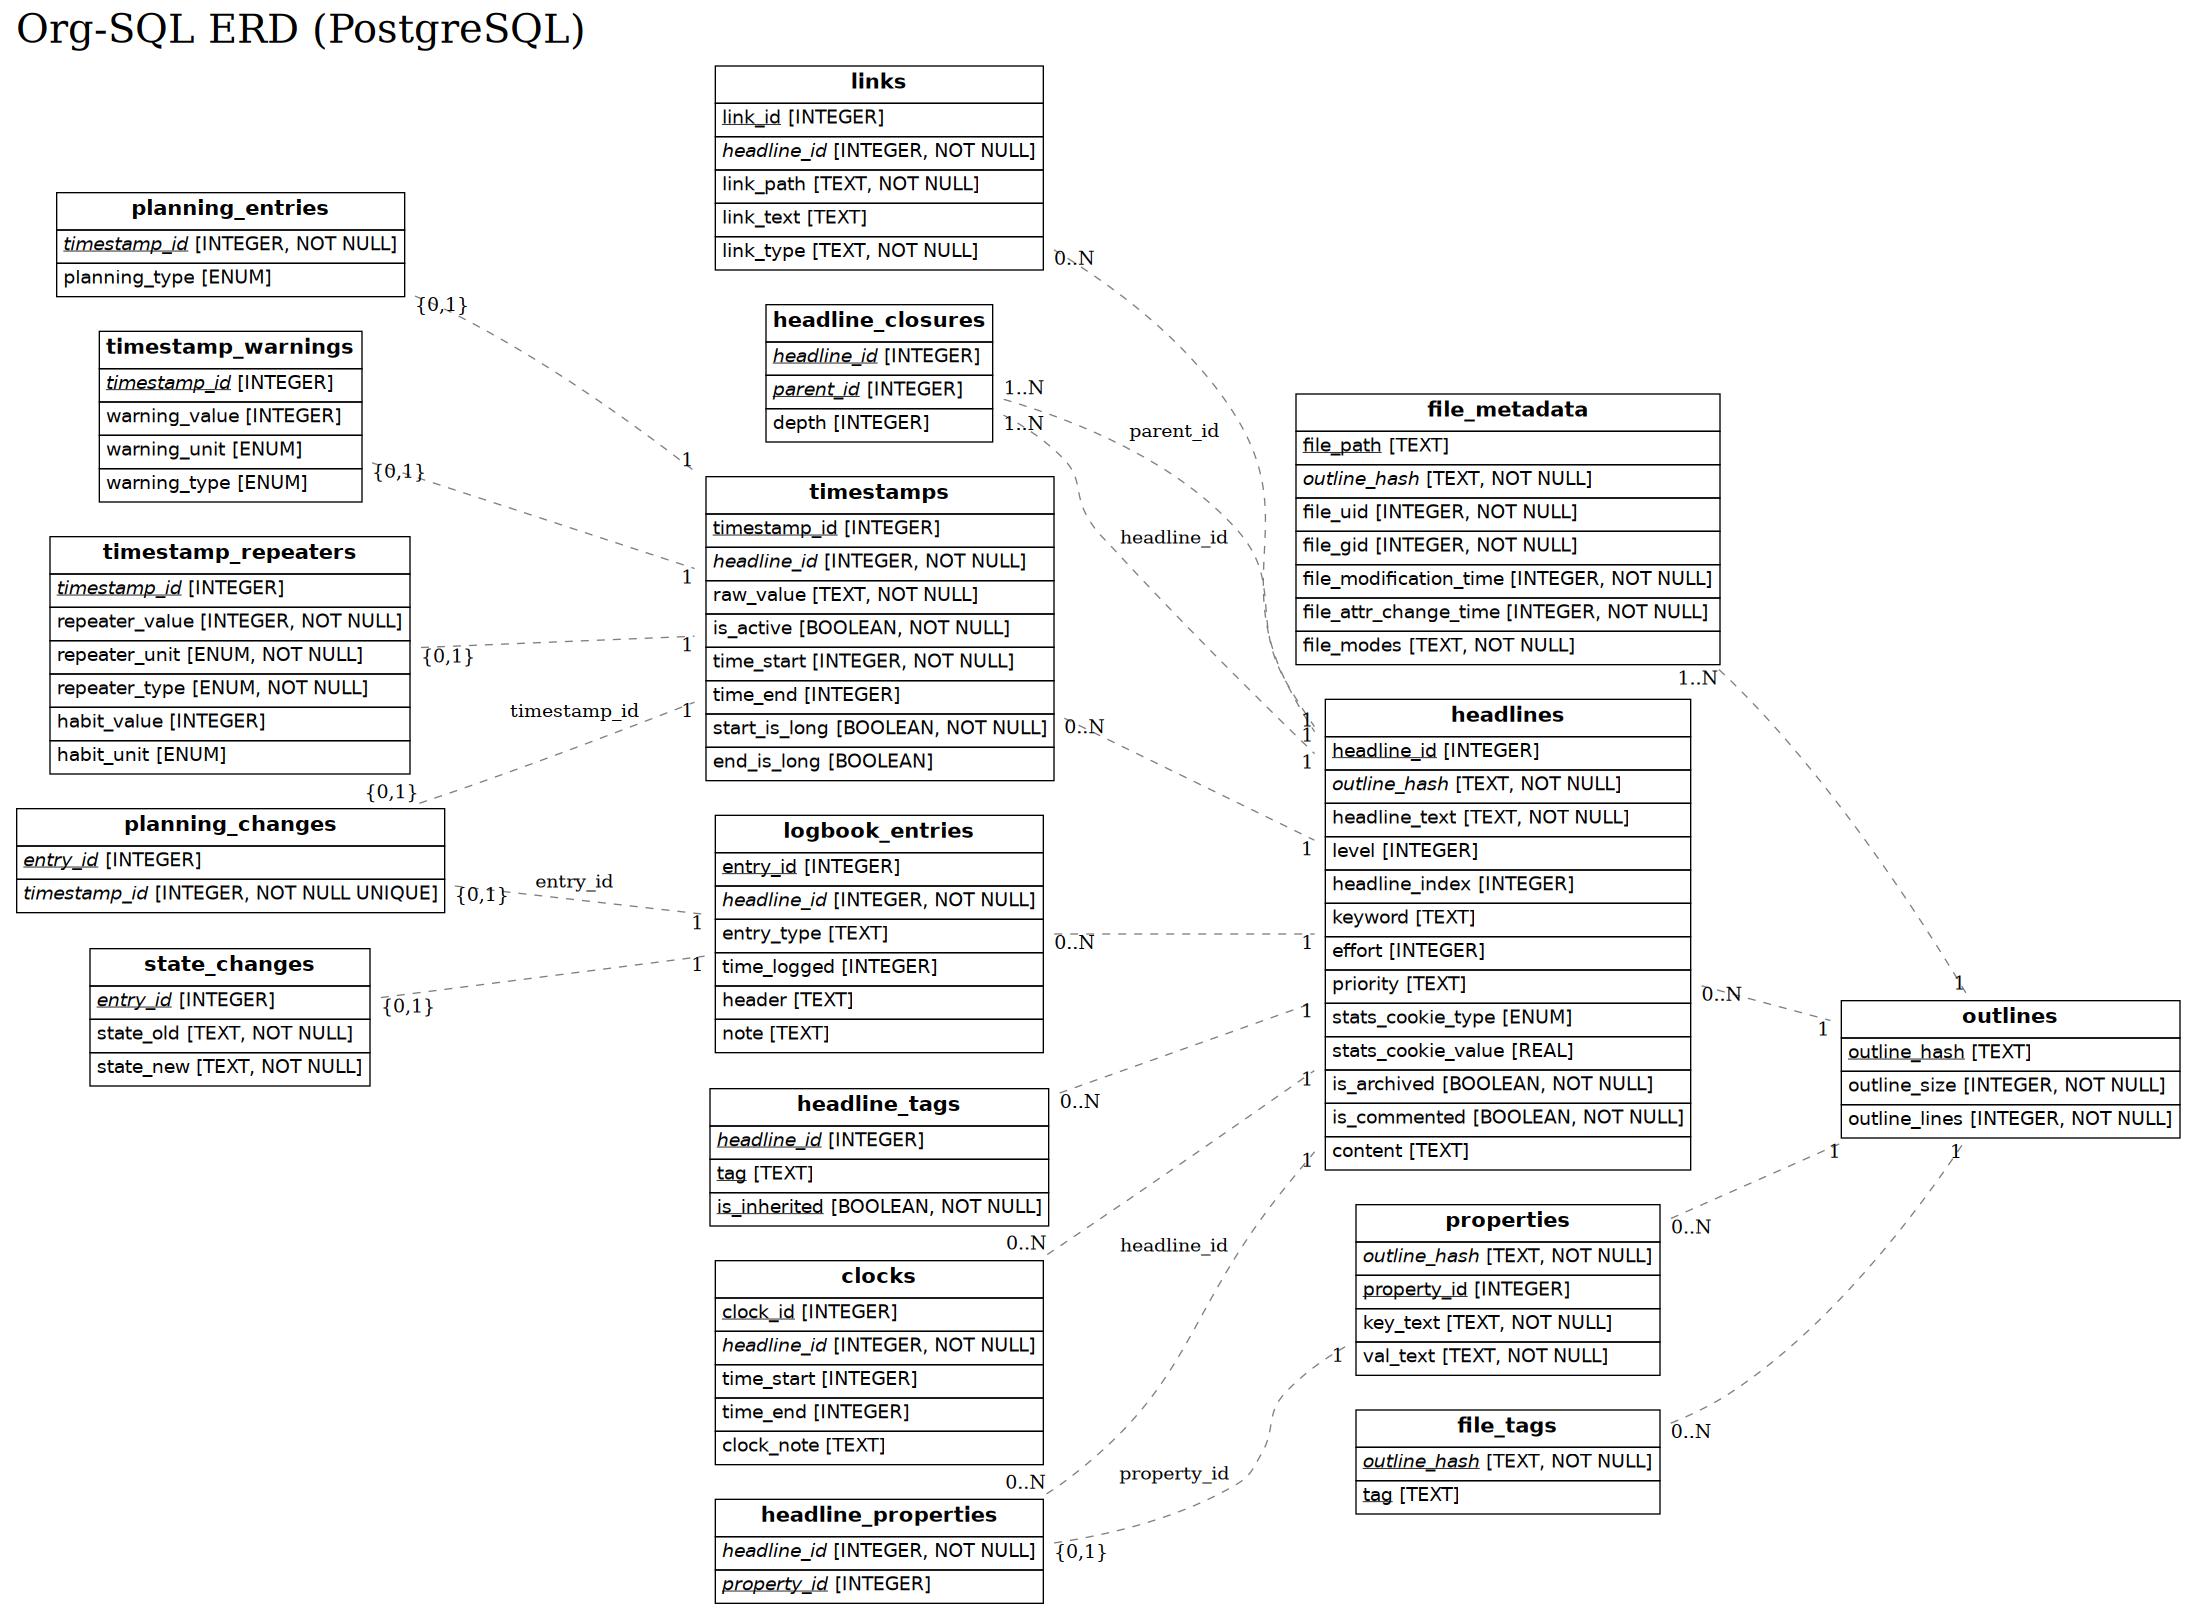
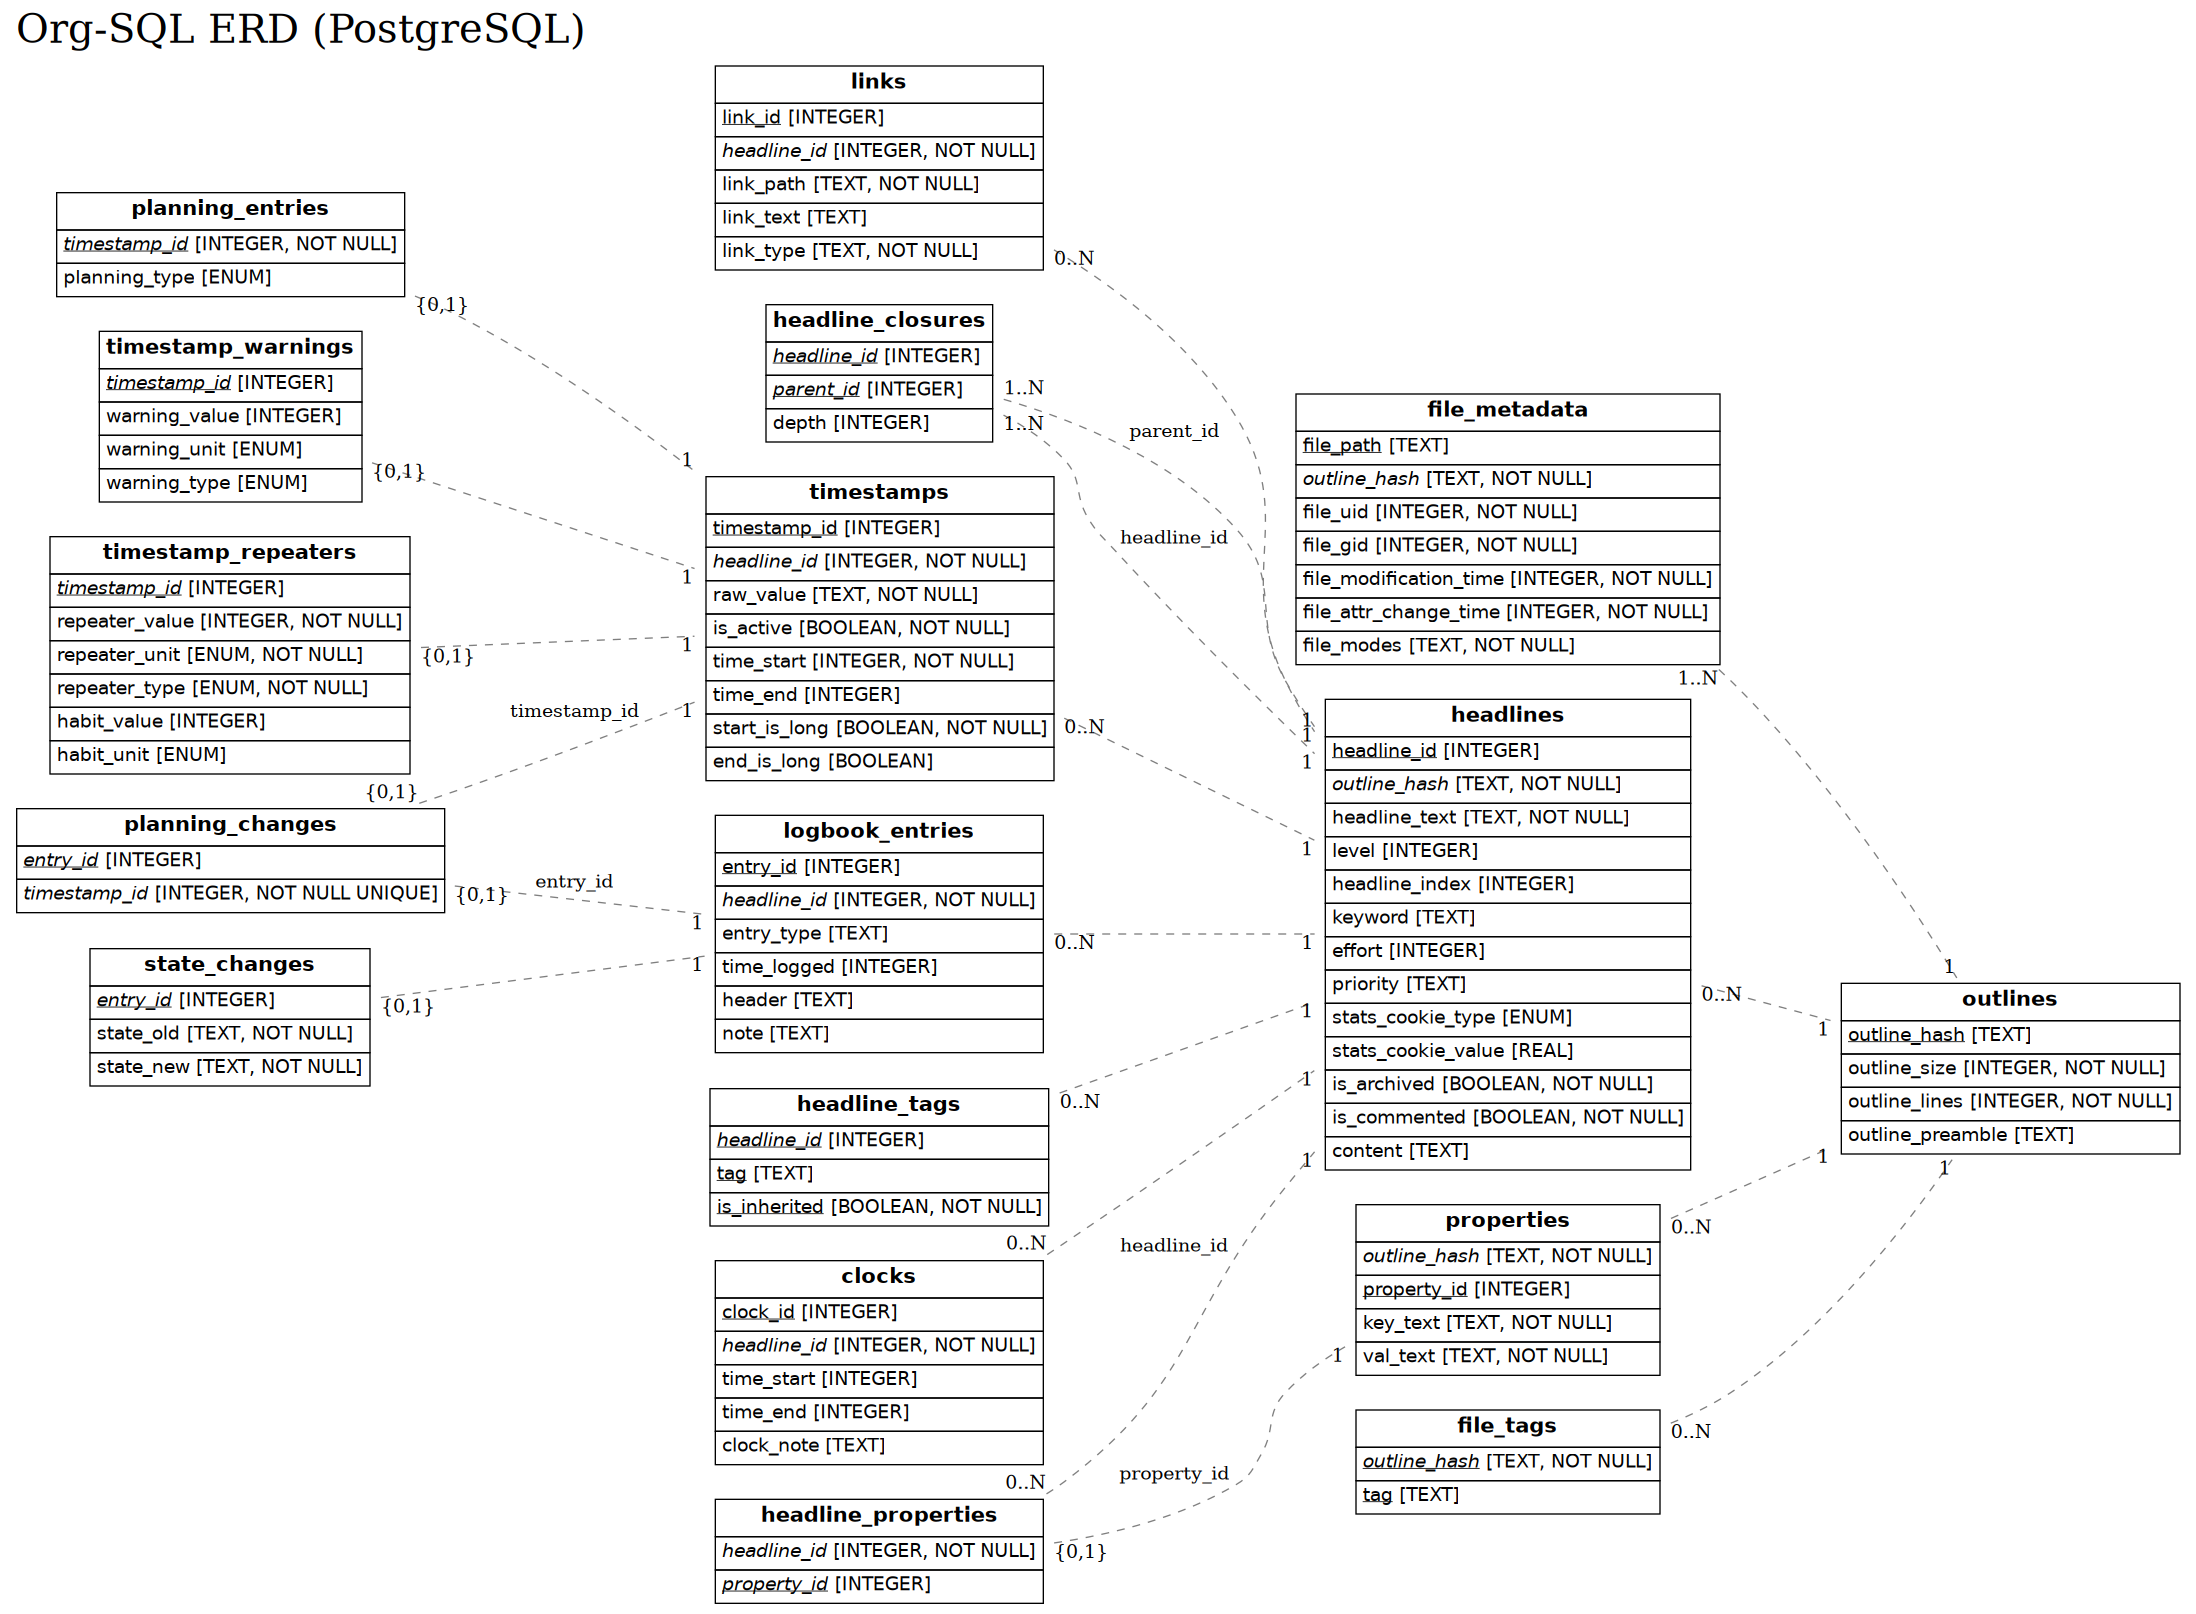
ENH bump version and update docs

Changed region(s): [[0.8361, 0.5886, 0.9909, 0.7125]]

diff --git a/README.md b/README.md
@@ -63,11 +63,15 @@ The following databases servers/versions are supported and tested:
 
 - PostgreSQL (13, 12, 11, 10, 9)
 - MariaDB (10.5, 10.4, 10.3, 10.2)
-- MySQL (8.0, 5.6)
+- MySQL (8.0)
 - SQL-Server (2019, 2017)
 
 Many versions besides these will likely work; these are simply those that are in
 the testing suite.
+
+MySQL 5.7 should also work for all functions except `org-sql-pull-from-db`,
+which will throw mysterious syntax errors because this function relies on
+recursive queries (which don't exist in 5.7).
 
 # Configuration
 
@@ -239,7 +243,7 @@ use case of creating a database and syncing org files to it.
 Run `org-sql-user-init`. In the case of SQLite, this will create a new database
 file. In all cases this will create the tables associated with `org-sql`.
 
-### Updating
+### Inserting data
 
 Run `org-sql-user-push`. This will synchronize the database with all files as
 indicated in `org-sql-files` by first checking if the file is in the database
@@ -270,6 +274,16 @@ Run `org-sql-user-clear-all`. This will clear all data but leave the schema.
 Run `org-sql-user-reset`. This will drop all tables associated with `org-sql`.
 In the case of SQLite, this will also delete the database file.
 
+### Pulling data out
+
+If you make changes in the database, run `org-sql-user-pull` to obtain the
+current database state. This will return a list where each member has the file
+path and its corresponding org-tree. Each org-tree can then be converted to a
+string using `org-ml-to-string` from the `org-ml` library.
+
+For now this will pull all the contents of the database. Fine-grained query
+control is planned for a future release.
+
 ### Debugging
 
 The interactive functions above will print a "success" message if the client
@@ -283,7 +297,6 @@ wrong.
 
 Additionally, the command `org-sql-dump-push-transaction` will print the
 transaction used by the `org-sql-push-to-db` and `org-sql-user-push` commands.
-
 
 ## Public API
 
@@ -301,9 +314,10 @@ database beyond the use cases covered by the above interactive functions:
 - Init/Teardown Operations
   - `org-sql-init-db`
   - `org-sql-reset-db`
-- Data-level operations
+- Data-level Operations
   - `org-sql-dump-table`
   - `org-sql-push-to-db`
+  - `org-sql-pull-from-db`
   - `org-sql-clear-db`
 - Other SQL Commands
   - `org-sql-send-sql`
@@ -318,21 +332,45 @@ future releases.
 
 ## Logbook variables
 
-This library uses the function `org-ml-headline-get-supercontents` from `org-ml`
-in order to determine which components of a headline belong to "the logbook."
-Knowing how this function works is not necessary to use `org-sql`, but the
-relevent point is that it takes a plist variable representing the logbook
-config, and this plist only has keys that correspond to `org-log-into-drawer`,
-`org-clock-into-drawer`, and `org-log-note-clock-out`. `org-sql` transparently
-understands these variables and their file-level and property-level equivalents
-where applicable, so logbooks will be parsed correctly assuming that their
-configuration matches the correspondingly scoped variables.
+The structure of the logbook (eg the the thing that holds clocks, notes, state
+changes, etc under a given headline) is determined by several variables.
+`org-sql` understands these three:
+- `org-log-into-drawer`
+- `org-clock-into-drawer`
+- `org-log-note-clock-out`
 
-While this should cover the vast array of use cases, `org-sql` does not support
-any other variables that may change the way the logbook is defined, including
-`org-log-state-notes-insert-after-drawers` and `org-log-note-headings`. Setting
-these to anything other than their defaults may break `org-sql`'s ability to
-properly parse logbooks (particulary the latter).
+These variables (may not be exhaustive) are **not** understood:
+- `org-log-state-notes-insert-after-drawers`
+- `org-log-note-headings`.
+
+The reason for this scope of support is due to `org-ml`, the library on which
+`org-sql` depends to parse org-mode syntax.
+
+### Inserting data
+
+When inserting data (`org-sql-push-to-db`), the three supported variables above
+will be used to determine what a valid logbook *should* look like. File-level
+(eg defined with the `#+PROPERTY` keyword) and headline-level (eg defined in a
+`PROPERTIES` drawer) values of these variables are also understood.
+
+This has two consequences:
+1) modifications to any unsupported variable that change the logbook may result
+   in an unrecognizeable logbook that will not be inserted into the proper
+   tables (most likely it will end up in the `headlines` table under the 
+   `contents` column)
+2) manual edits to the logbook that are out of sync with how it would normally
+   be produced using the given variables will result in a similar situation as
+   (1)
+   
+### Pulling data
+
+When pulling data (`org-sql-pull-from-db`), the three supported variables are
+used to reassemble the logbook data from the database into org syntax. Any
+unsupported variables will simply be ignored.
+
+Unlike `org-sql-push-to-db`, the pull mechanism corrently only considers the
+global value of the three supported variables. Support for file- and
+headline-level values is planned for a future release.
 
 # Database Layout
 

diff --git a/doc/table-descriptions.md b/doc/table-descriptions.md
@@ -2,13 +2,14 @@
 
 ## outlines
 
-Each row stores the hash and size for the contents of one org file (here called an `outline`). Note that if there are identical org files, only one `outline` will be stored in the database (as determined by the unique hash) and the paths shared the outline will be reflected in the `file_metadata` table.
+Each row stores the hash, size, and toplevel section for an org file (here called an `outline`). Note that if there are identical org files, only one `outline` will be stored in the database (as determined by the unique hash) and the paths shared the outline will be reflected in the `file_metadata` table.
 
 | Column | Description |
 |  -  |  -  |
 | outline_hash | hash (MD5) of this org outline |
 | outline_size | number of characters of the org outline |
 | outline_lines | number of lines in the org file |
+| outline_preamble | the content before the first headline |
 
 ## file_metadata
 
@@ -197,4 +198,4 @@ Each row stores one link.
 | link_text | text of this link that isn't part of the path |
 | link_type | type of this link (eg http, mu4e, file, etc) |
 
-Version: 2.0.0
+Version: 3.0.0
